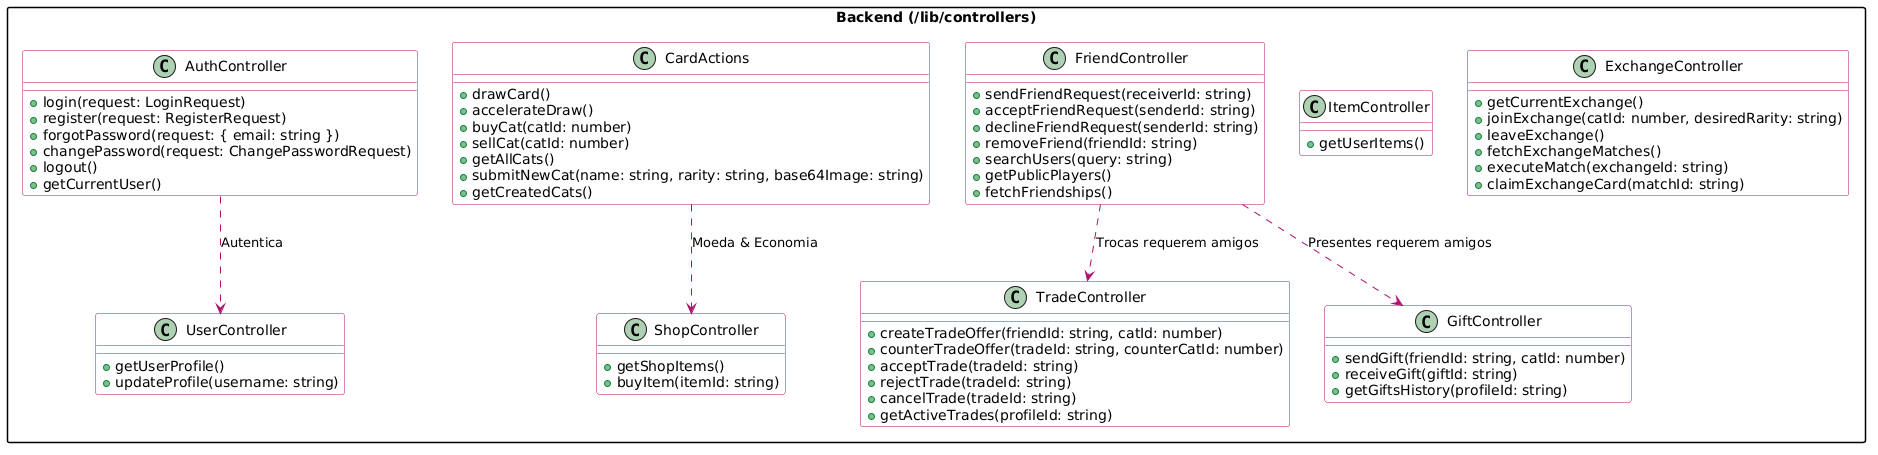
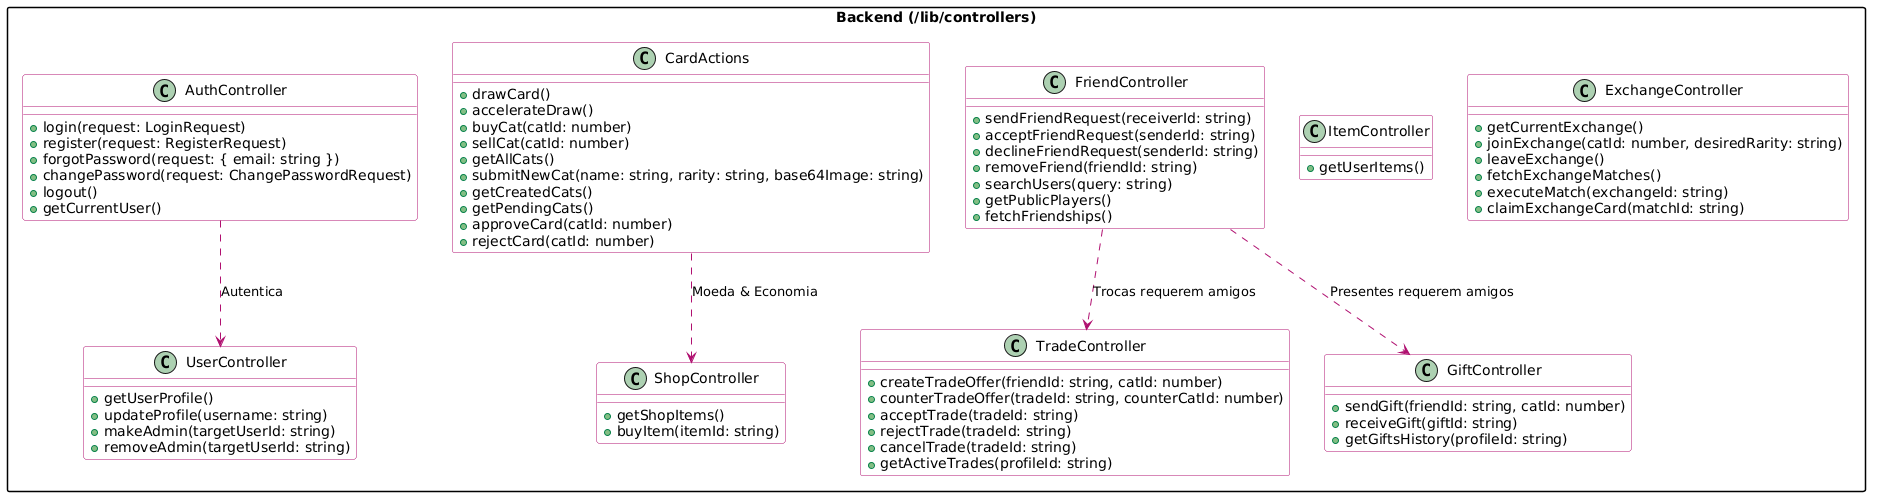
Refactor code structure for improved readability and maintainability

diff --git a/docs/backend/auth-and-storage.md b/docs/backend/auth-and-storage.md
@@ -2,6 +2,10 @@
 
 O Catcha utiliza o Supabase tanto para Autenticação quanto para Armazenamento de Objetos (Storage). Isso garante um gerenciamento seguro, escalável e padronizado de identidades de usuários e ativos do jogo.
 
+## Modelo do Banco
+
+![Modelo do Banco](/docs/images/database-diagram.png)
+
 ## Autenticação
 
 A autenticação é totalmente gerenciada pelo Supabase Auth, integrado ao Next.js usando `@supabase/ssr` para lidar de forma segura com cookies em Server Components e Server Actions.